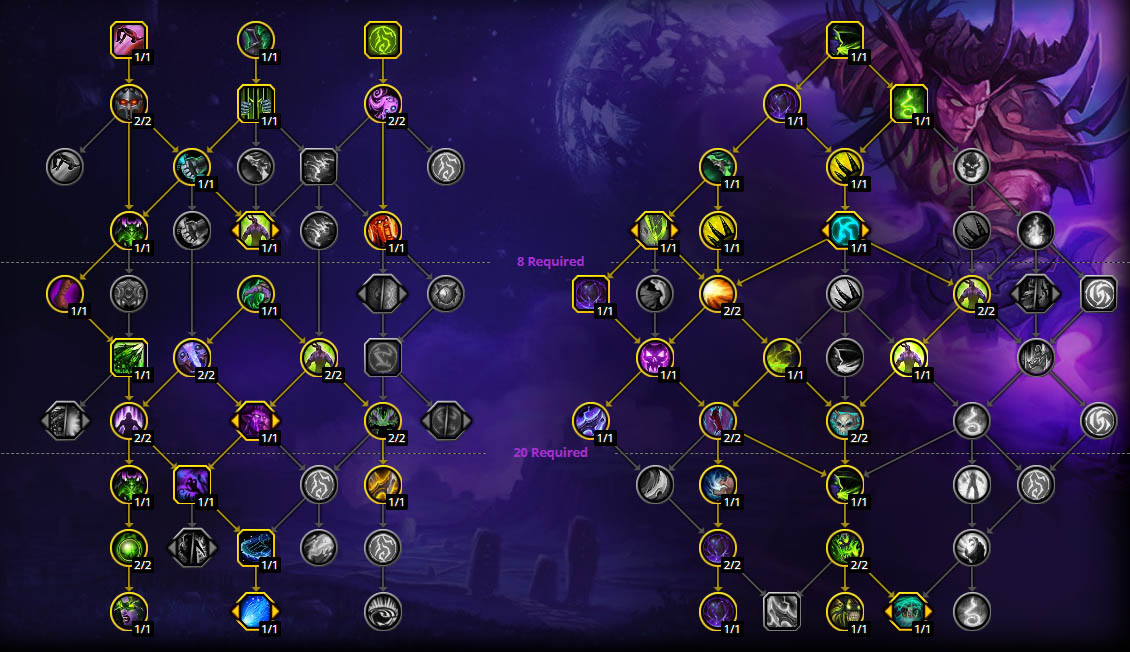
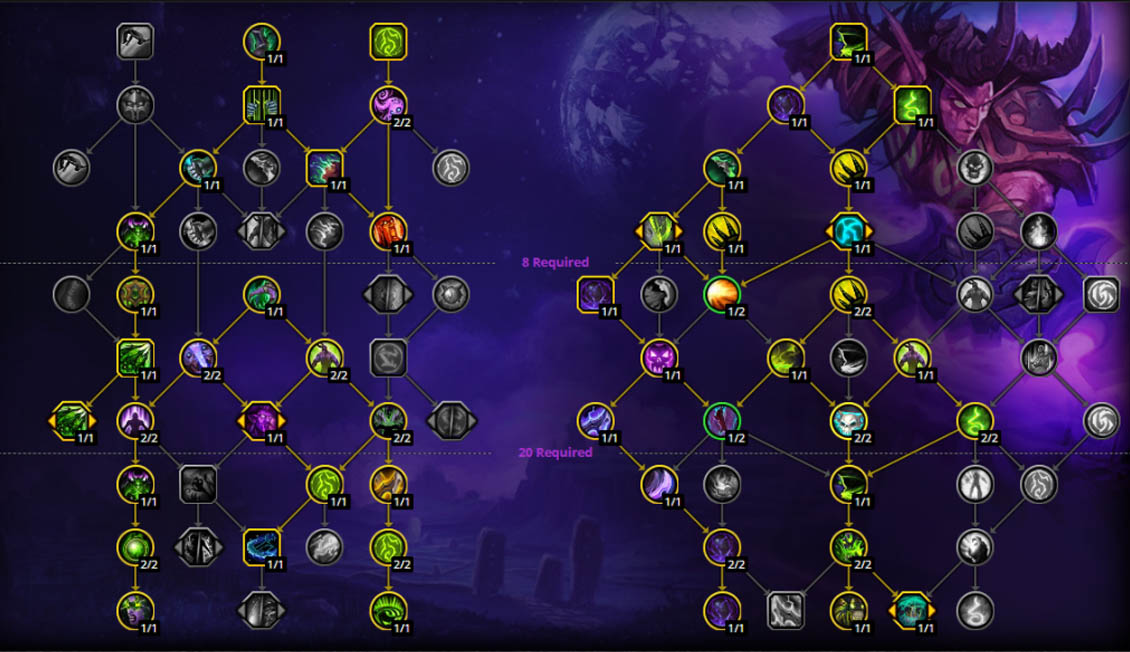
guide 10.0

diff --git a/guide/vengeance/consumables.md b/guide/vengeance/consumables.md
@@ -57,7 +57,7 @@ image:
 * 1 х [Броский бесконечный алмаз](https://www.wowhead.com/ru/item=192985)
 
 * [Коварный изерилл](https://www.wowhead.com/ru/item=192945/)
-* [Усиленный изерилл](https://www.wowhead.com/ru/item=192952/) - +36 к вероятности критического удара.
+* [Усиленный изерилл](https://www.wowhead.com/ru/item=192952/)
 
 Воспользуйтесь рейдботсом чтоб узнать какая характеристика вам дает максимальную прибавку урона
 

diff --git a/guide/vengeance/gear.md b/guide/vengeance/gear.md
@@ -79,7 +79,7 @@ image:
 
 * [Прочная чешуйка Гранита](https://www.wowhead.com/ru/item=193689/)
 * [Украшение пламени](https://www.wowhead.com/ru/item=194299/)
-
+* [Бутылка вьющихся вихрей](https://www.wowhead.com/ru/item=193697)
 * [Одержимый светоч горя](https://www.wowhead.com/ru/item=194308)
 * [Благословение Пожирательницы Бурь](https://www.wowhead.com/ru/item=194302/)
 

diff --git a/guide/vengeance/talent-builds.md b/guide/vengeance/talent-builds.md
@@ -80,7 +80,7 @@ BUkAAAAAAAAAAAAAAAAAAAAAAAAgIIJREARCQSJBJR7ARiEJhEtkUSSSSoEJBAAAAA
 
 <pre>
 <code class="language-less">
-BUkAAAAAAAAAAAAAAAAAAAAAAAAQJQJJRSSARCAFgEtkEJJJSSSLJiESkSIBAAAAA
+BUkAAAAAAAAAAAAAAAAAAAAAAAAgIIJREARCQUAJR7ARyBSSikEtkUSSSSoEJBAAAAA
 </code>
 </pre>
 
